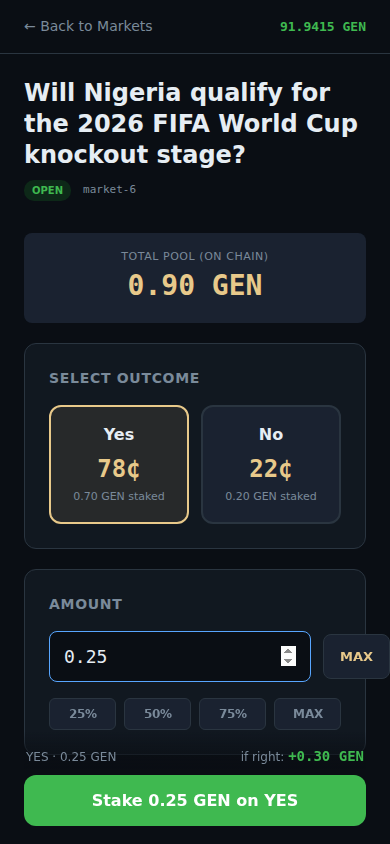
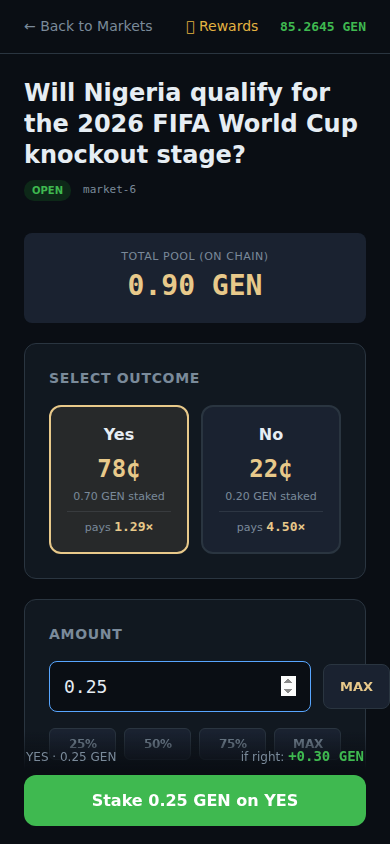
Fix: YES and NO showed identical payout before an amount was typed
With an empty amount field previewPayout returns 0 for both sides, so the
panel rendered '+0.00 GEN / 0%' for YES and NO alike — indistinguishable and
therefore read as broken.

- add sideMultiplier(): stake-independent payout ratio per side
- show 'pays N.NNx' on each YES/NO button, always distinct
- empty-amount state now shows the selected side's multiplier and implied
  upside instead of zeros
- bump client query to v=4 to bust mobile ES-module cache

Verified on all 7 markets: 'identical when empty' is now false everywhere.

diff --git a/docs/stake.html b/docs/stake.html
@@ -45,6 +45,9 @@
   .opt-name{font-size:16px;font-weight:700;margin-bottom:4px}
   .opt-price{font-size:24px;font-weight:800;color:var(--butter);font-family:ui-monospace,monospace}
   .opt-pool{font-size:11px;color:var(--muted);margin-top:2px}
+  .opt-odds{font-size:11px;color:var(--muted);margin-top:5px;padding-top:5px;
+            border-top:1px solid rgba(125,133,144,.2)}
+  .opt-odds b{color:var(--butter);font-family:ui-monospace,monospace;font-size:13px}
 
   .amount-row{display:flex;align-items:center;gap:12px;margin-bottom:16px}
   .amount-input{flex:1;background:var(--bg);border:1px solid var(--border);border-radius:8px;color:var(--text);padding:14px;font-size:18px;font-family:ui-monospace,monospace}
@@ -127,11 +130,13 @@
         <div class="opt-name">Yes</div>
         <div class="opt-price" id="yesPrice">—</div>
         <div class="opt-pool" id="yesPool">0 GEN staked</div>
+        <div class="opt-odds">pays <b id="oddsYes">—</b></div>
       </div>
       <div class="opt-btn" id="optNo" onclick="selectOpt('NO')">
         <div class="opt-name">No</div>
         <div class="opt-price" id="noPrice">—</div>
         <div class="opt-pool" id="noPool">0 GEN staked</div>
+        <div class="opt-odds">pays <b id="oddsNo">—</b></div>
       </div>
     </div>
   </div>
@@ -190,7 +195,7 @@
 </div>
 
 <script type="module">
-import * as gl from './gl-client.v2.js?v=2';
+import * as gl from './gl-client.v2.js?v=4';
 
 const params = new URLSearchParams(location.search);
 const marketId = params.get('id') || 'market-1';
@@ -254,6 +259,37 @@ function calcPayout() {
   const fmt = (n) => (Math.abs(n) < 0.005 ? '0.00' : n.toFixed(2));
   const sign = (n) => (n > 0.005 ? '+' : '');
 
+  // Always show each side's odds on its button, so YES and NO are visibly
+  // different BEFORE any amount is typed. Without this both sides render
+  // "+0.00 GEN / 0%" and look identical (i.e. broken).
+  for (const s of ['YES', 'NO']) {
+    const el = $(s === 'YES' ? 'oddsYes' : 'oddsNo');
+    if (!el) continue;
+    const m = gl.sideMultiplier(market, s);
+    el.textContent = m.oneSided ? '—' : m.multiplier.toFixed(2) + '×';
+  }
+
+  if (amt <= 0) {
+    // Empty state: show the multiplier for the SELECTED side rather than
+    // zeros, so the panel still distinguishes YES from NO.
+    const m = gl.sideMultiplier(market, side);
+    $('winAmt').textContent = m.oneSided ? '1.00× (no opposing stake)' : m.multiplier.toFixed(2) + '× your stake';
+    $('winPct').textContent = m.oneSided ? 'no opposing stake yet' : '+' + m.impliedPct.toFixed(0) + '% if right';
+    $('loseAmt').textContent = 'your stake';
+    $('dStake').textContent = '0.00 GEN';
+    $('dPool').textContent = fmt(market.pool) + ' GEN';
+    $('dProfit').textContent = '—';
+    $('dRoi').textContent = m.oneSided ? '0% (one-sided)' : m.impliedPct.toFixed(0) + '%';
+    $('barSide').textContent = `${side} · enter amount`;
+    $('barPayout').textContent = m.oneSided ? '—' : m.multiplier.toFixed(2) + '×';
+    const b0 = $('stakeBtn');
+    if (market.status === 'OPEN' && gl.isConnected()) {
+      b0.disabled = true;
+      b0.textContent = 'Enter an amount';
+    }
+    return;
+  }
+
   $('winAmt').textContent = '+' + fmt(payout) + ' GEN';
   $('loseAmt').textContent = '-' + fmt(amt) + ' GEN';
   $('dStake').textContent = fmt(amt) + ' GEN';
@@ -262,7 +298,7 @@ function calcPayout() {
 
   // On a one-sided market there is no opposing money to win, so ROI is
   // genuinely 0%. Say so plainly instead of showing a bare "0%".
-  if (amt > 0 && oneSided) {
+  if (oneSided) {
     $('winPct').textContent = 'no opposing stake yet';
     $('dRoi').textContent = '0% (one-sided)';
   } else {

diff --git a/public/stake.html b/public/stake.html
@@ -45,6 +45,9 @@
   .opt-name{font-size:16px;font-weight:700;margin-bottom:4px}
   .opt-price{font-size:24px;font-weight:800;color:var(--butter);font-family:ui-monospace,monospace}
   .opt-pool{font-size:11px;color:var(--muted);margin-top:2px}
+  .opt-odds{font-size:11px;color:var(--muted);margin-top:5px;padding-top:5px;
+            border-top:1px solid rgba(125,133,144,.2)}
+  .opt-odds b{color:var(--butter);font-family:ui-monospace,monospace;font-size:13px}
 
   .amount-row{display:flex;align-items:center;gap:12px;margin-bottom:16px}
   .amount-input{flex:1;background:var(--bg);border:1px solid var(--border);border-radius:8px;color:var(--text);padding:14px;font-size:18px;font-family:ui-monospace,monospace}
@@ -127,11 +130,13 @@
         <div class="opt-name">Yes</div>
         <div class="opt-price" id="yesPrice">—</div>
         <div class="opt-pool" id="yesPool">0 GEN staked</div>
+        <div class="opt-odds">pays <b id="oddsYes">—</b></div>
       </div>
       <div class="opt-btn" id="optNo" onclick="selectOpt('NO')">
         <div class="opt-name">No</div>
         <div class="opt-price" id="noPrice">—</div>
         <div class="opt-pool" id="noPool">0 GEN staked</div>
+        <div class="opt-odds">pays <b id="oddsNo">—</b></div>
       </div>
     </div>
   </div>
@@ -190,7 +195,7 @@
 </div>
 
 <script type="module">
-import * as gl from './gl-client.v2.js?v=2';
+import * as gl from './gl-client.v2.js?v=4';
 
 const params = new URLSearchParams(location.search);
 const marketId = params.get('id') || 'market-1';
@@ -254,6 +259,37 @@ function calcPayout() {
   const fmt = (n) => (Math.abs(n) < 0.005 ? '0.00' : n.toFixed(2));
   const sign = (n) => (n > 0.005 ? '+' : '');
 
+  // Always show each side's odds on its button, so YES and NO are visibly
+  // different BEFORE any amount is typed. Without this both sides render
+  // "+0.00 GEN / 0%" and look identical (i.e. broken).
+  for (const s of ['YES', 'NO']) {
+    const el = $(s === 'YES' ? 'oddsYes' : 'oddsNo');
+    if (!el) continue;
+    const m = gl.sideMultiplier(market, s);
+    el.textContent = m.oneSided ? '—' : m.multiplier.toFixed(2) + '×';
+  }
+
+  if (amt <= 0) {
+    // Empty state: show the multiplier for the SELECTED side rather than
+    // zeros, so the panel still distinguishes YES from NO.
+    const m = gl.sideMultiplier(market, side);
+    $('winAmt').textContent = m.oneSided ? '1.00× (no opposing stake)' : m.multiplier.toFixed(2) + '× your stake';
+    $('winPct').textContent = m.oneSided ? 'no opposing stake yet' : '+' + m.impliedPct.toFixed(0) + '% if right';
+    $('loseAmt').textContent = 'your stake';
+    $('dStake').textContent = '0.00 GEN';
+    $('dPool').textContent = fmt(market.pool) + ' GEN';
+    $('dProfit').textContent = '—';
+    $('dRoi').textContent = m.oneSided ? '0% (one-sided)' : m.impliedPct.toFixed(0) + '%';
+    $('barSide').textContent = `${side} · enter amount`;
+    $('barPayout').textContent = m.oneSided ? '—' : m.multiplier.toFixed(2) + '×';
+    const b0 = $('stakeBtn');
+    if (market.status === 'OPEN' && gl.isConnected()) {
+      b0.disabled = true;
+      b0.textContent = 'Enter an amount';
+    }
+    return;
+  }
+
   $('winAmt').textContent = '+' + fmt(payout) + ' GEN';
   $('loseAmt').textContent = '-' + fmt(amt) + ' GEN';
   $('dStake').textContent = fmt(amt) + ' GEN';
@@ -262,7 +298,7 @@ function calcPayout() {
 
   // On a one-sided market there is no opposing money to win, so ROI is
   // genuinely 0%. Say so plainly instead of showing a bare "0%".
-  if (amt > 0 && oneSided) {
+  if (oneSided) {
     $('winPct').textContent = 'no opposing stake yet';
     $('dRoi').textContent = '0% (one-sided)';
   } else {

diff --git a/docs/gl-client.v2.js b/docs/gl-client.v2.js
@@ -190,6 +190,30 @@ export function previewPayout(market, side, stakeGen) {
   };
 }
 
+/** Payout multiplier for a side, independent of stake size.
+ *
+ * This is what a market's odds actually mean: stake 1 GEN on `side` and you'd
+ * get back roughly `multiplier` GEN if it wins. Unlike previewPayout it does
+ * NOT need an amount, so the UI can show meaningful per-side numbers BEFORE
+ * the user types anything — otherwise both YES and NO read "+0.00 GEN / 0%",
+ * which looks identical and therefore broken.
+ *
+ * Uses a nominal 1-unit stake so the ratio reflects current pool balance.
+ */
+export function sideMultiplier(market, side) {
+  const sidePool = side === 'YES' ? market.yes : market.no;
+  const opposing = side === 'YES' ? market.no : market.yes;
+  if (opposing <= 0) return { multiplier: 1, impliedPct: null, oneSided: true };
+
+  // Limit case for a small stake: total / winning side.
+  const multiplier = sidePool > 0 ? market.pool / sidePool : Infinity;
+  return {
+    multiplier,
+    impliedPct: (multiplier - 1) * 100,
+    oneSided: false,
+  };
+}
+
 /** Settlement payouts for a resolved/settled market.
  *
  * Parimutuel: each winner receives their share of the WHOLE pool in proportion

diff --git a/public/gl-client.v2.js b/public/gl-client.v2.js
@@ -190,6 +190,30 @@ export function previewPayout(market, side, stakeGen) {
   };
 }
 
+/** Payout multiplier for a side, independent of stake size.
+ *
+ * This is what a market's odds actually mean: stake 1 GEN on `side` and you'd
+ * get back roughly `multiplier` GEN if it wins. Unlike previewPayout it does
+ * NOT need an amount, so the UI can show meaningful per-side numbers BEFORE
+ * the user types anything — otherwise both YES and NO read "+0.00 GEN / 0%",
+ * which looks identical and therefore broken.
+ *
+ * Uses a nominal 1-unit stake so the ratio reflects current pool balance.
+ */
+export function sideMultiplier(market, side) {
+  const sidePool = side === 'YES' ? market.yes : market.no;
+  const opposing = side === 'YES' ? market.no : market.yes;
+  if (opposing <= 0) return { multiplier: 1, impliedPct: null, oneSided: true };
+
+  // Limit case for a small stake: total / winning side.
+  const multiplier = sidePool > 0 ? market.pool / sidePool : Infinity;
+  return {
+    multiplier,
+    impliedPct: (multiplier - 1) * 100,
+    oneSided: false,
+  };
+}
+
 /** Settlement payouts for a resolved/settled market.
  *
  * Parimutuel: each winner receives their share of the WHOLE pool in proportion
